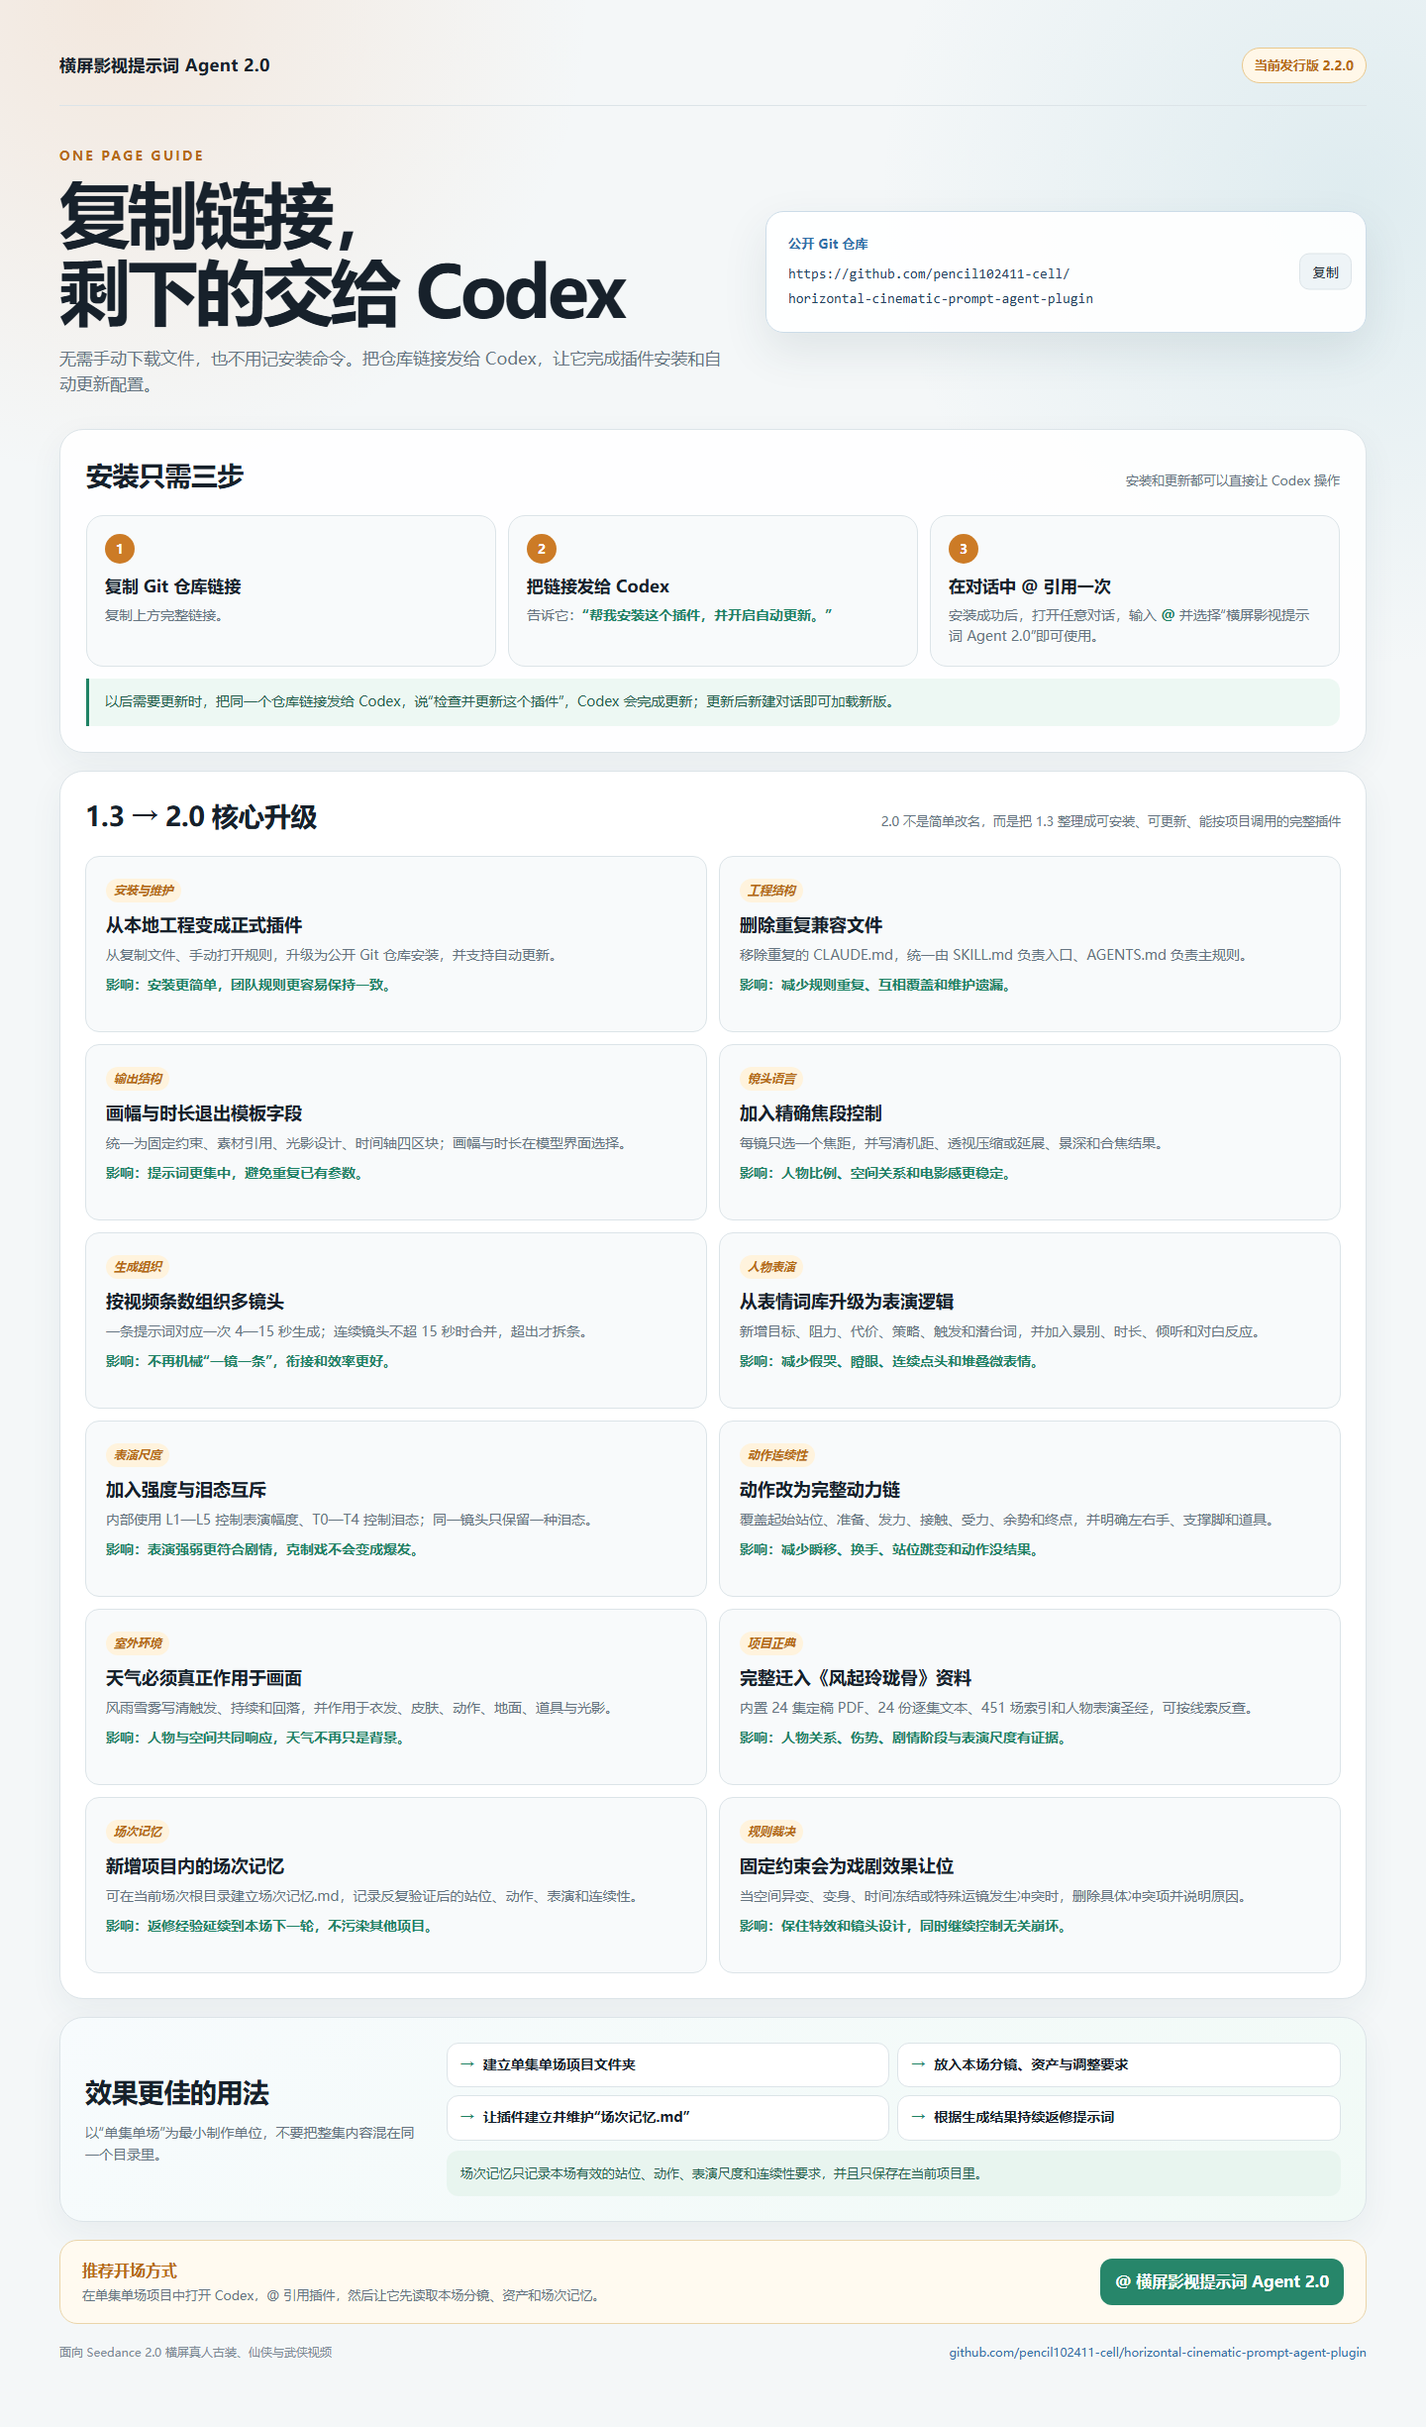
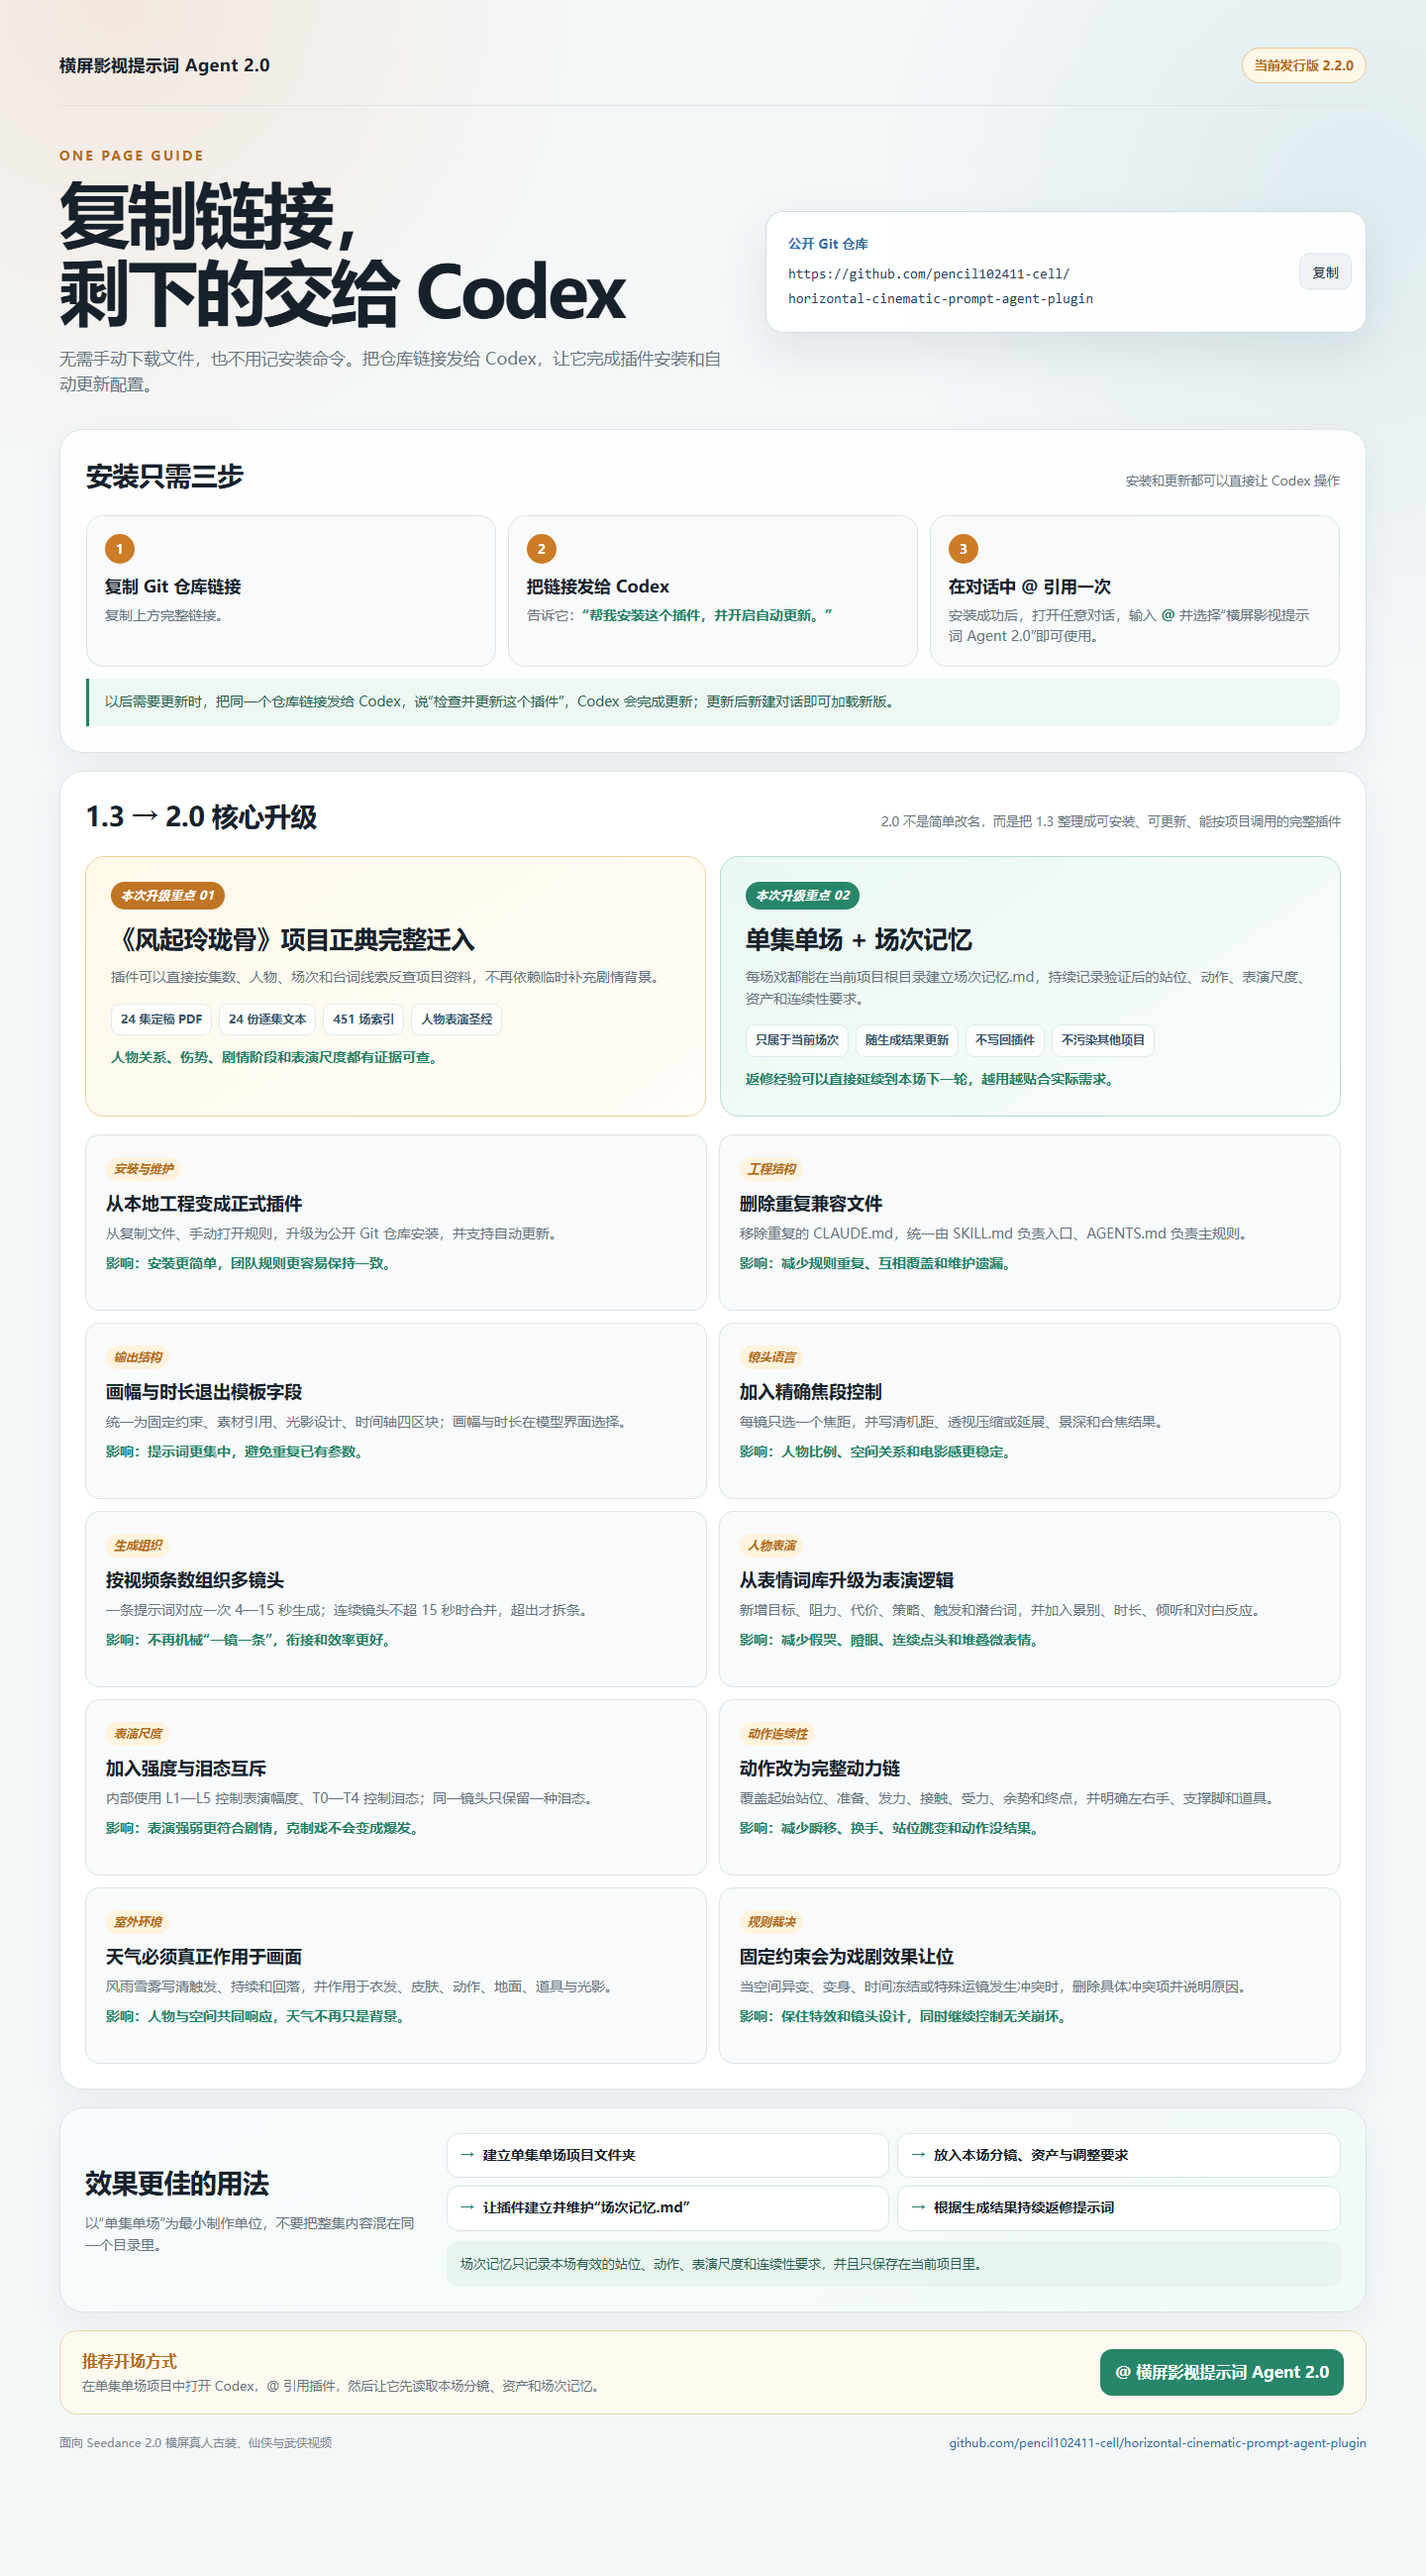
Highlight project canon and scene memory

diff --git a/安装指南与更新说明.html b/安装指南与更新说明.html
@@ -177,6 +177,47 @@
       box-shadow: 0 12px 35px rgba(42,67,82,.06);
     }
 
+    .focus-grid {
+      display: grid;
+      grid-template-columns: 1fr 1fr;
+      gap: 14px;
+      margin-bottom: 18px;
+    }
+    .focus-card {
+      min-height: 220px;
+      padding: 25px;
+      border: 1px solid #cddfe6;
+      border-radius: 19px;
+      overflow: hidden;
+    }
+    .focus-card.canon { background: linear-gradient(145deg, #fff8e9, #fffdf8); border-color: #efd29b; }
+    .focus-card.scene { background: linear-gradient(145deg, #eaf8f2, #f8fcfa); border-color: #bcded1; }
+    .focus-tag {
+      display: inline-block;
+      margin-bottom: 11px;
+      padding: 5px 10px;
+      border-radius: 999px;
+      color: #ffffff;
+      background: #bf7423;
+      font-size: 12px;
+      font-weight: 850;
+      letter-spacing: .04em;
+    }
+    .scene .focus-tag { background: #27866a; }
+    .focus-card h3 { margin: 0 0 8px; font-size: 25px; letter-spacing: -.02em; }
+    .focus-card p { margin: 0; color: var(--muted); font-size: 14px; }
+    .focus-stats { display: flex; flex-wrap: wrap; gap: 7px; margin: 15px 0 12px; }
+    .focus-stats span {
+      padding: 6px 9px;
+      border: 1px solid rgba(49,111,167,.15);
+      border-radius: 9px;
+      color: #35546d;
+      background: rgba(255,255,255,.70);
+      font-size: 12px;
+      font-weight: 800;
+    }
+    .focus-impact { color: var(--green) !important; font-weight: 800; }
+
     .upgrades {
       display: grid;
       grid-template-columns: repeat(2, 1fr);
@@ -263,7 +304,7 @@
     footer a { color: var(--blue); text-decoration: none; }
 
     @media (max-width: 920px) {
-      .hero, .best-layout { grid-template-columns: 1fr; }
+      .hero, .best-layout, .focus-grid { grid-template-columns: 1fr; }
       .steps, .upgrades { grid-template-columns: 1fr; }
       .step { min-height: auto; }
       .bottom, footer { align-items: flex-start; flex-direction: column; }
@@ -329,6 +370,26 @@
           <h2>1.3 → 2.0 核心升级</h2>
           <span>2.0 不是简单改名，而是把 1.3 整理成可安装、可更新、能按项目调用的完整插件</span>
         </div>
+        <div class="focus-grid">
+          <article class="focus-card canon">
+            <i class="focus-tag">本次升级重点 01</i>
+            <h3>《风起玲珑骨》项目正典完整迁入</h3>
+            <p>插件可以直接按集数、人物、场次和台词线索反查项目资料，不再依赖临时补充剧情背景。</p>
+            <div class="focus-stats">
+              <span>24 集定稿 PDF</span><span>24 份逐集文本</span><span>451 场索引</span><span>人物表演圣经</span>
+            </div>
+            <p class="focus-impact">人物关系、伤势、剧情阶段和表演尺度都有证据可查。</p>
+          </article>
+          <article class="focus-card scene">
+            <i class="focus-tag">本次升级重点 02</i>
+            <h3>单集单场 + 场次记忆</h3>
+            <p>每场戏都能在当前项目根目录建立场次记忆.md，持续记录验证后的站位、动作、表演尺度、资产和连续性要求。</p>
+            <div class="focus-stats">
+              <span>只属于当前场次</span><span>随生成结果更新</span><span>不写回插件</span><span>不污染其他项目</span>
+            </div>
+            <p class="focus-impact">返修经验可以直接延续到本场下一轮，越用越贴合实际需求。</p>
+          </article>
+        </div>
         <div class="upgrades">
           <div class="upgrade">
             <i class="tag">安装与维护</i><b>从本地工程变成正式插件</b>
@@ -374,16 +435,6 @@
             <i class="tag">室外环境</i><b>天气必须真正作用于画面</b>
             <span>风雨雪雾写清触发、持续和回落，并作用于衣发、皮肤、动作、地面、道具与光影。</span>
             <span class="impact">影响：人物与空间共同响应，天气不再只是背景。</span>
-          </div>
-          <div class="upgrade">
-            <i class="tag">项目正典</i><b>完整迁入《风起玲珑骨》资料</b>
-            <span>内置 24 集定稿 PDF、24 份逐集文本、451 场索引和人物表演圣经，可按线索反查。</span>
-            <span class="impact">影响：人物关系、伤势、剧情阶段与表演尺度有证据。</span>
-          </div>
-          <div class="upgrade">
-            <i class="tag">场次记忆</i><b>新增项目内的场次记忆</b>
-            <span>可在当前场次根目录建立场次记忆.md，记录反复验证后的站位、动作、表演和连续性。</span>
-            <span class="impact">影响：返修经验延续到本场下一轮，不污染其他项目。</span>
           </div>
           <div class="upgrade">
             <i class="tag">规则裁决</i><b>固定约束会为戏剧效果让位</b>
